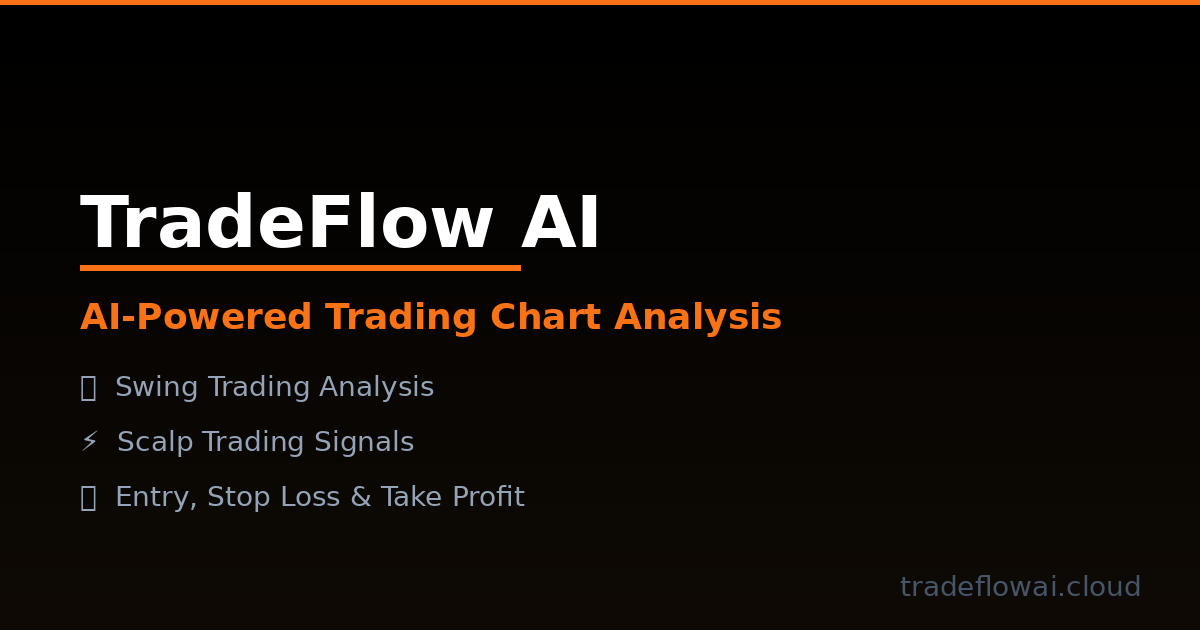
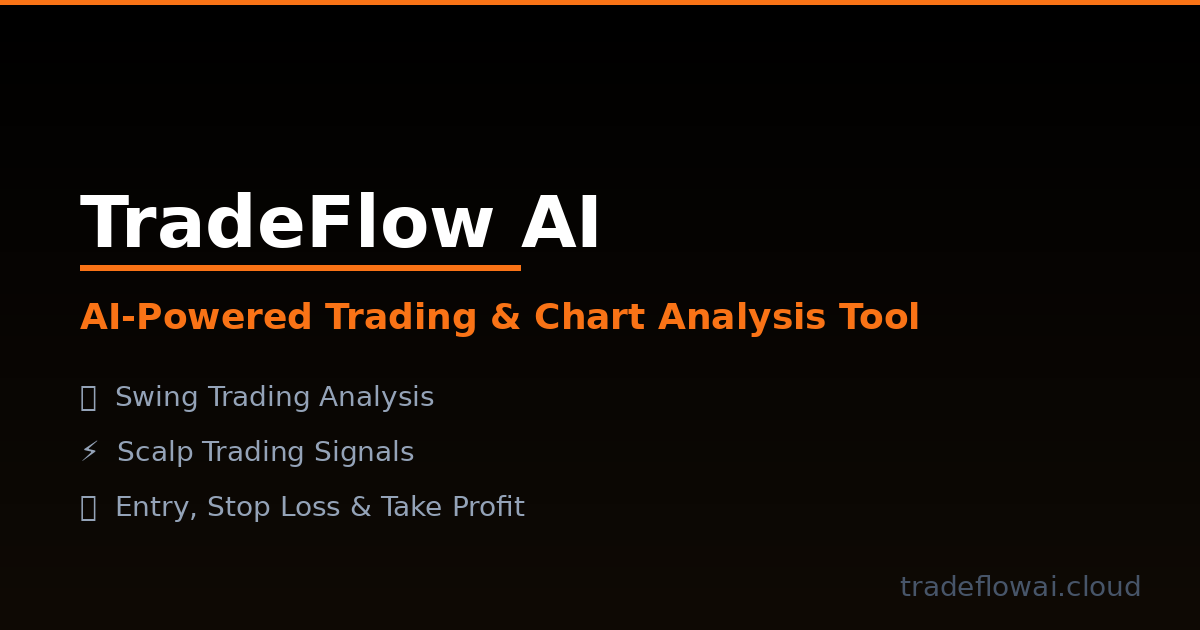
seo: fix og-image and title length

Changed region(s): [[0.0617, 0.6937, 0.4317, 0.8444], [0.4008, 0.4825, 0.7708, 0.5429], [0.0617, 0.6032, 0.37, 0.6635]]

diff --git a/app/layout.tsx b/app/layout.tsx
@@ -5,7 +5,7 @@ import { Providers } from "./providers";
 import { Toaster } from "react-hot-toast";
 const inter = Inter({ subsets: ["latin"] });
 export const metadata: Metadata = {
-  title: "TradeFlow AI - AI-Powered Trading Chart Analysis",
+  title: "TradeFlow AI - AI-Powered Trading & Chart Analysis Tool",
   description: "Analyze trading charts instantly with AI. Get entry points, stop loss, take profit levels for swing and scalp trading. Powered by Google Gemini.",
   keywords: ["trading analysis", "AI trading", "chart analysis", "swing trading", "scalp trading", "technical analysis", "trading signals"],
   authors: [{ name: "TradeFlow AI" }],
@@ -17,14 +17,14 @@ export const metadata: Metadata = {
   openGraph: {
     type: "website",
     url: "https://tradeflowai.cloud",
-    title: "TradeFlow AI - AI-Powered Trading Chart Analysis",
+    title: "TradeFlow AI - AI-Powered Trading & Chart Analysis Tool",
     description: "Analyze trading charts instantly with AI. Get entry points, stop loss, take profit levels for swing and scalp trading.",
     siteName: "TradeFlow AI",
     images: [{ url: "/og-image.png", width: 1200, height: 630, alt: "TradeFlow AI" }],
   },
   twitter: {
     card: "summary_large_image",
-    title: "TradeFlow AI - AI-Powered Trading Chart Analysis",
+    title: "TradeFlow AI - AI-Powered Trading & Chart Analysis Tool",
     description: "Analyze trading charts instantly with AI. Get entry points, stop loss and take profit levels.",
     images: ["/og-image.png"],
   },
